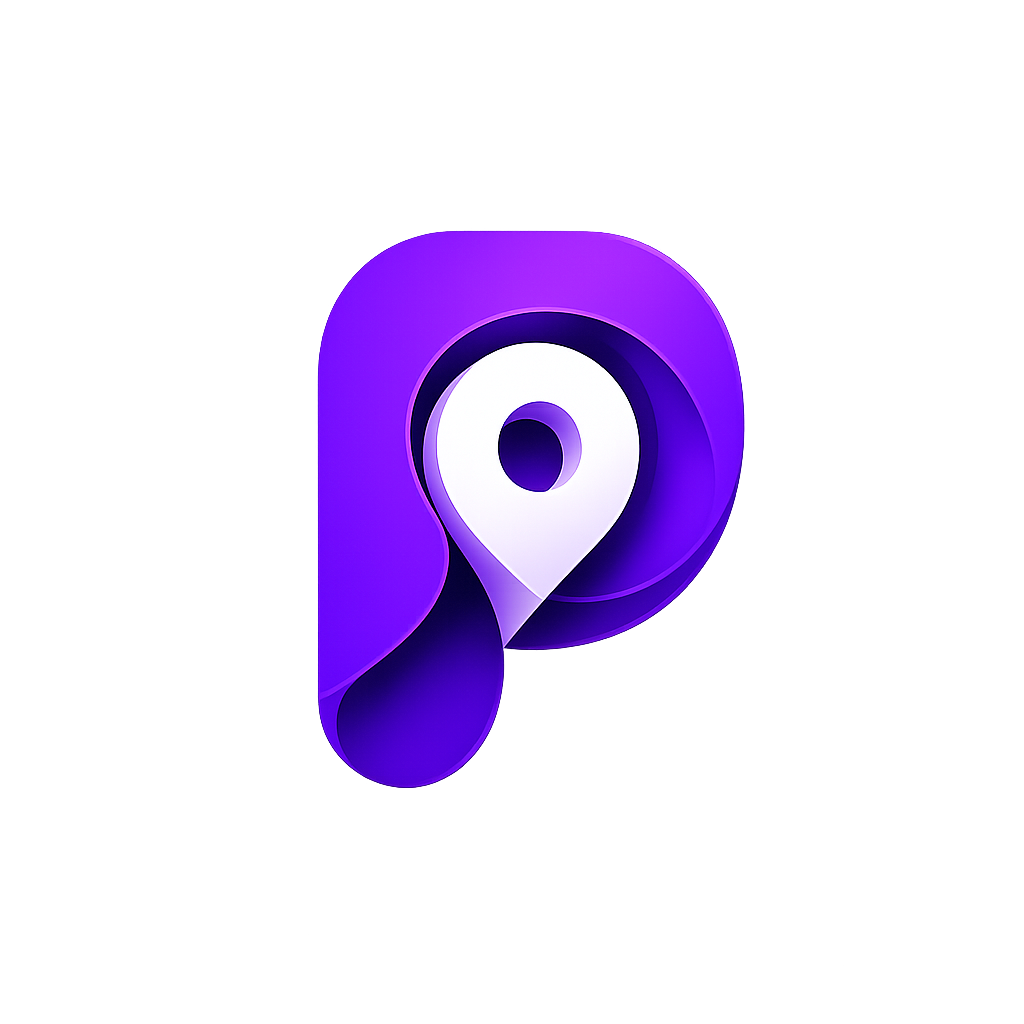
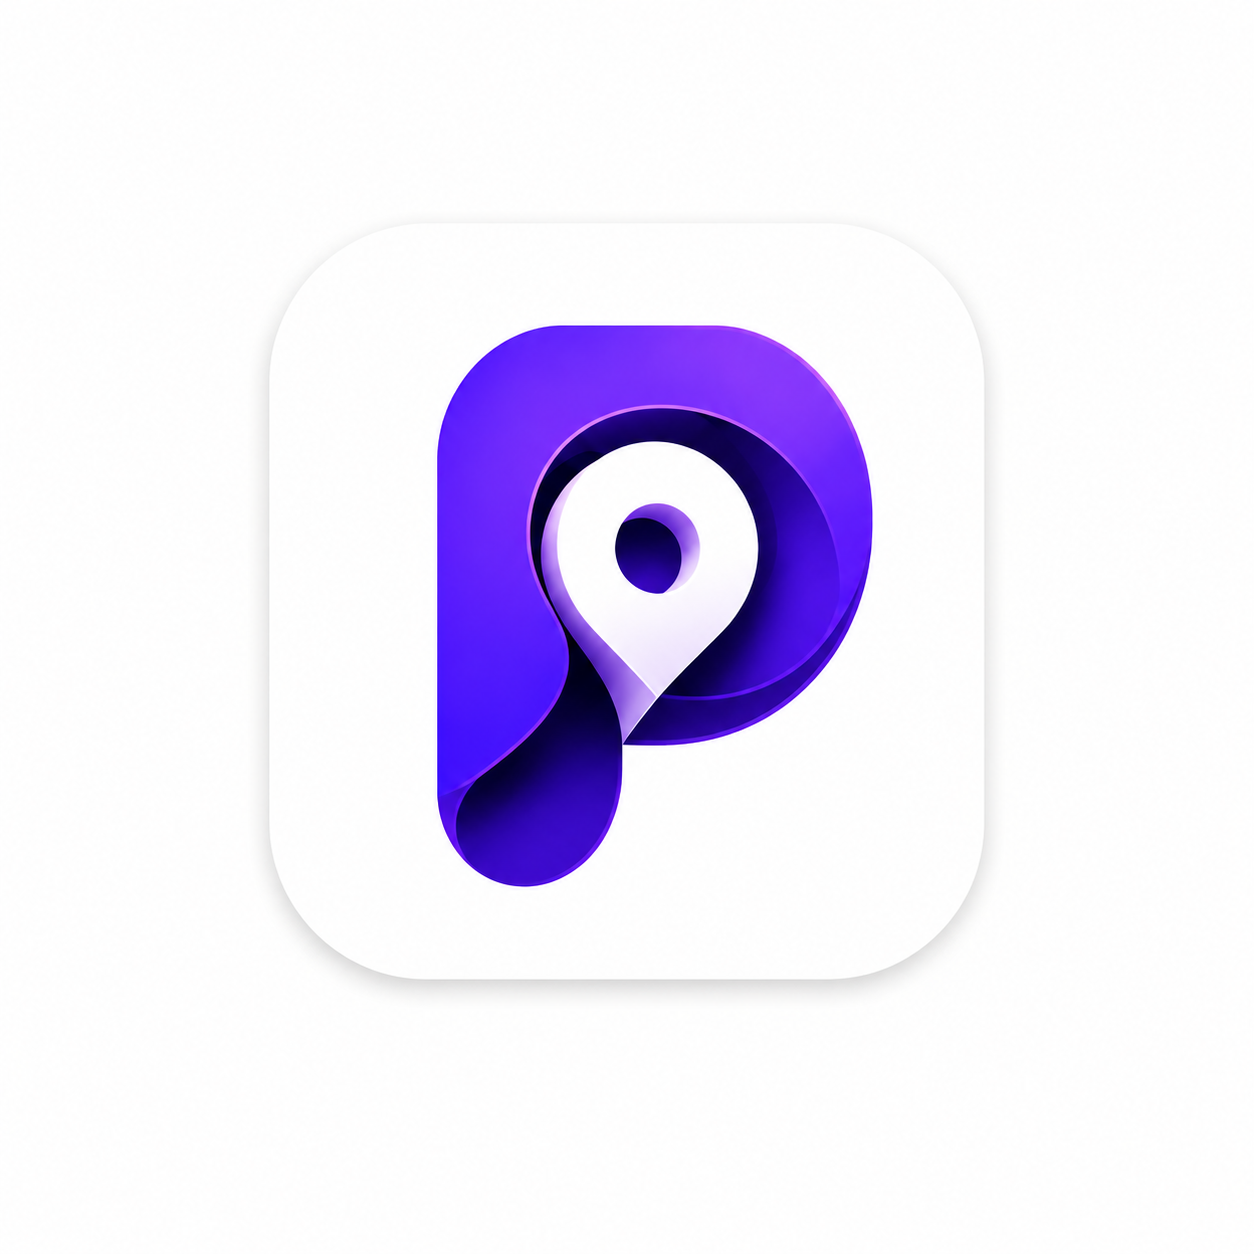
Update Prescout branding assets and auth screens
- New app icon from handover folder (app icon.png)
- Splash screen updated to resizeMode contain, white background
- Login and signup screens show theme-aware logo at 65% width
- Logos swap correctly: dark variant for dark mode, light for light mode

diff --git a/src/app/(auth)/signup.tsx b/src/app/(auth)/signup.tsx
@@ -164,7 +164,7 @@ const styles = StyleSheet.create({
   container: { flexGrow: 1, paddingHorizontal: 24, paddingTop: 24, paddingBottom: 40, gap: 32 },
   backBtn: { alignSelf: 'flex-start' },
   backText: { color: COLORS.primary, fontSize: 18, fontWeight: '500' },
-  header: { alignItems: 'center' },
+  header: { alignItems: 'center', paddingBottom: 8 },
   logoImg: {},
   form: { gap: 16 },
   error: { color: COLORS.packed, backgroundColor: COLORS.packed + '1A', padding: 12, borderRadius: 14, fontSize: 14 },

diff --git a/src/app/(auth)/login.tsx b/src/app/(auth)/login.tsx
@@ -133,7 +133,7 @@ const styles = StyleSheet.create({
   safe: { flex: 1, backgroundColor: COLORS.bg },
   flex: { flex: 1 },
   container: { flexGrow: 1, paddingHorizontal: 24, justifyContent: 'center', gap: 40, paddingVertical: 40 },
-  hero: { alignItems: 'center' },
+  hero: { alignItems: 'center', paddingBottom: 8 },
   logoImg: {},
   form: { gap: 16 },
   heading: { color: COLORS.text, fontSize: 24, fontWeight: '700', marginBottom: 4 },
